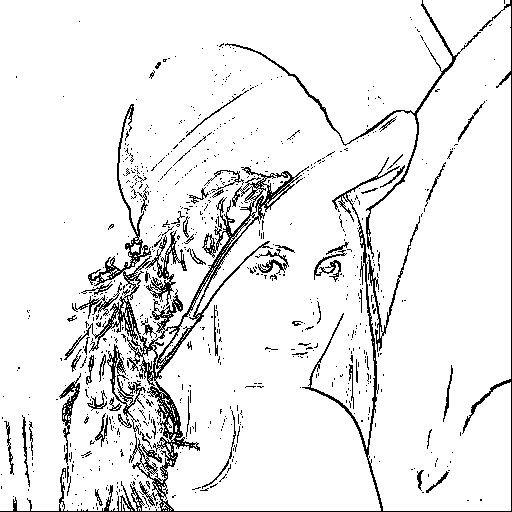
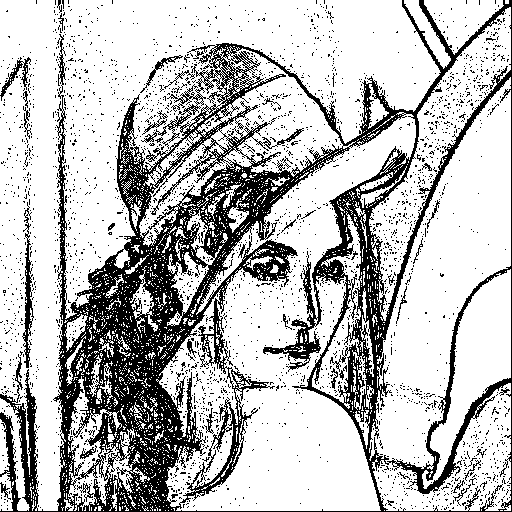
prew test

diff --git a/B05902011_HW9_ver1/iprocess.py b/B05902011_HW9_ver1/iprocess.py
@@ -6,8 +6,8 @@ import math
 def expand(im_raw, size):
     X,Y = np.shape(im_raw)
     im = im_raw.copy().astype("int")
-    row = np.zeros((size, Y), dtype("int"))
-    col = np.zeros((X+2, size), dtype("int"))
+    row = np.zeros((size, Y), dtype = "int")
+    col = np.zeros((X+2, size), dtype = "int")
     im = np.concatenate((row, im), axis = 0)
     im = np.concatenate((im, row), axis = 0)
     im = np.concatenate((col, im), axis = 1)
@@ -19,7 +19,7 @@ def Robo(im_raw, threshold):
     img = expand(im_raw, 1)
     f1 = lambda x : (img[x[0] + 1, x[1] + 1] - img[x])**2
     f2 = lambda x : (img[x[0] + 1, x[1] - 1] - img[x])**2 
-    f1 = lambda x : math.sqrt(f1(x) + f2((x[0], x[1]+1)))
+    f = lambda x : math.sqrt(f1(x) + f2((x[0], x[1]+1)))
     for i in range(X):
         for j in range(Y):
             img[i+1, j+1] = 255 * (f((i+1, j+1)) < threshold )
@@ -27,10 +27,16 @@ def Robo(im_raw, threshold):
 
 def Prew(im_raw, threshold):
     X,Y = np.shape(im_raw)
-    img = expand(im_raw, 2)
-    f1 = lambda x : (sum(img[x[0] + 2][x[1] : x[1] + 3]) 
-                    - sum(img[x[0]][x[1] : x[1] + 3]))**2
-    f2 = lambda x : 
+    img = expand(im_raw, 1)
+    f1 = lambda x : (sum(img[x[0] + 1, x[1] - 1 : x[1] + 2]) 
+                    - sum(img[x[0] - 1, x[1] - 1 : x[1] + 2]))**2
+    f2 = lambda x : (sum(img[x[0] - 1 : x[0] + 2, x[1] + 1])
+                    - sum(img[x[0] - 1 : x[0] + 2, x[1] - 1]))**2
+    f = lambda x : math.sqrt(f1(x) + f2(x))
+    for i in range(X):
+        for j in range(Y):
+            img[i + 1, j + 1] = 255 * (f((i + 1, j + 1)) < threshold)
+    return img[1:X+1, 1:Y+1]
 
 def main(argv):
     img = np.array(Image.open(argv[1]))
